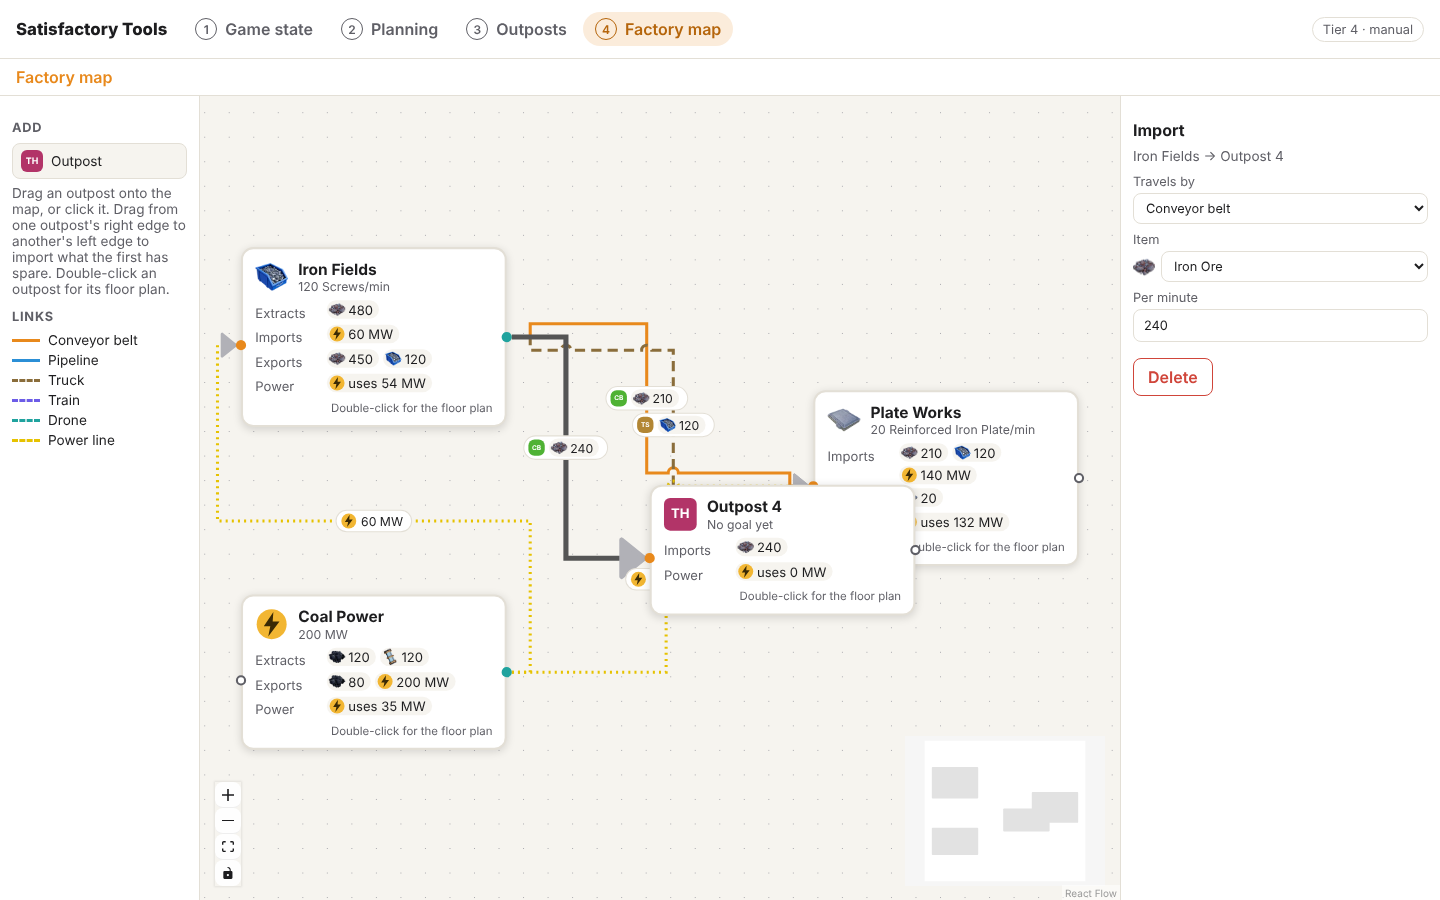
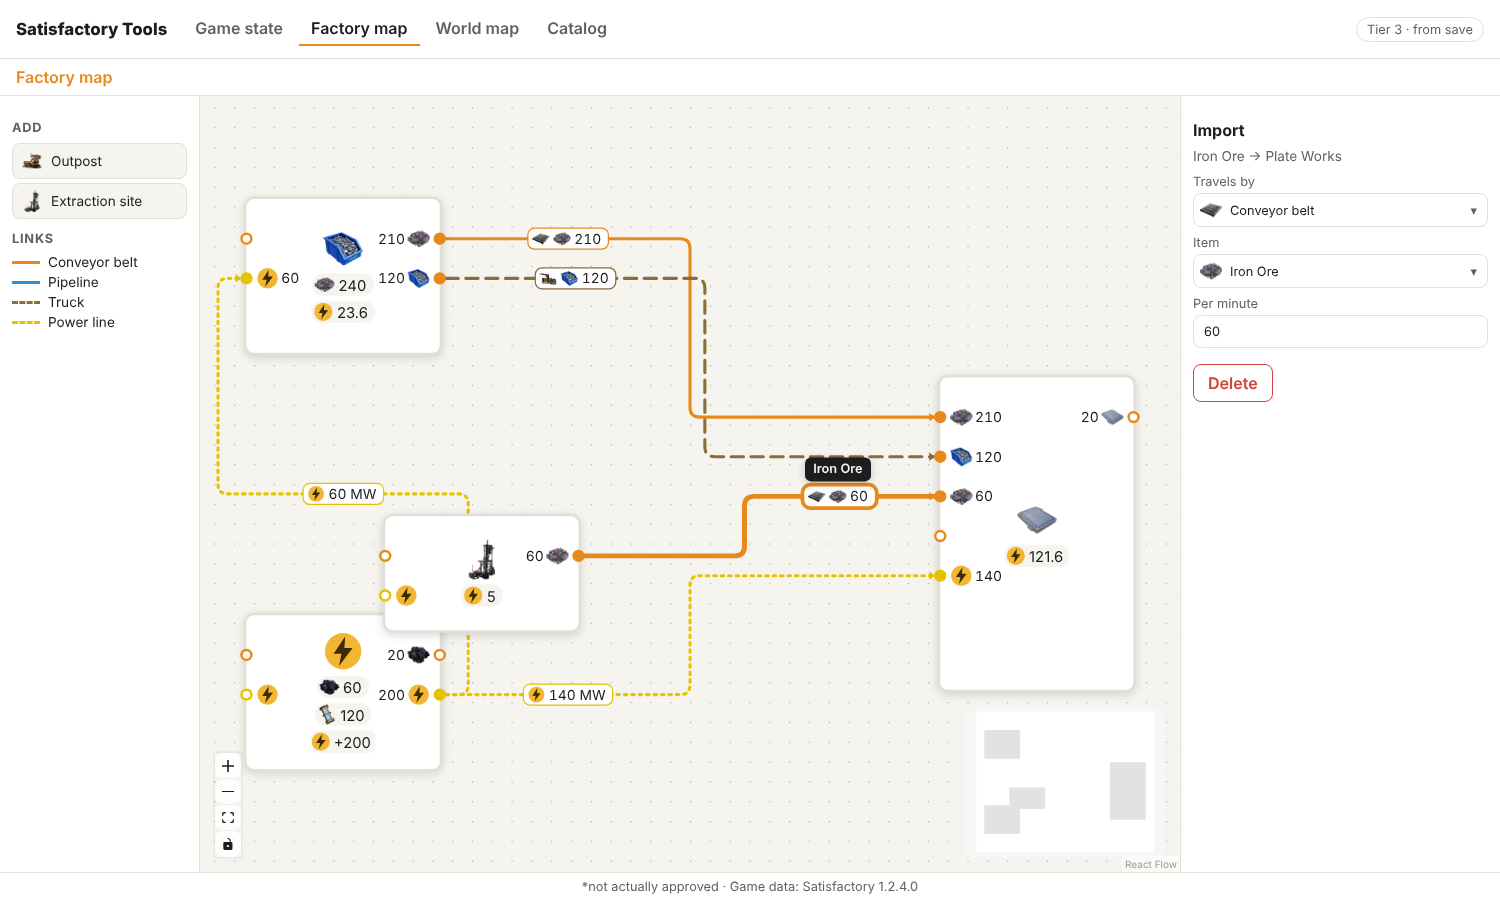
Factory map: a point per export item and per import, valid transports, extraction sites, grid-sized blocks; drop the outposts list
- Each exported item has its own export point and each import its own import point,
  plus one free import point that a new link fills (#67).
- Links only offer transports that fit the item, and are drawn with rounded corners,
  small arrowheads and compact labels (#67).
- Outpost blocks are sized to their largest floor on a half-foundation grid and snap to it (#68).
- Extraction sites: outposts with nodes and no goal, added from the palette (#69).
- The Outposts tab is gone; #/outposts opens the factory map (#65).

Claude-Session: https://claude.ai/code/session_012XC9zHTGKXR4wxBLU2vdTS

diff --git a/docs/node-editor.md b/docs/node-editor.md
@@ -13,9 +13,15 @@ Tracked in #12. The layout algorithm is #13, the floor-plan grid is #29.
 
 ![Factory map](node-editor/1-factory-map.png)
 
-Each block shows the outpost's goal, what it extracts, what it imports, what it exports (goal, surplus resources and byproducts, from the solver) and how much power it uses. Shortfalls show in red.
+Blocks are drawn with icons rather than text (`src/editor/macro.ts`, #67, #68):
 
-Links are coloured by how they travel: belt, pipe, truck, train, drone, or power line. When two outposts have several links, they are drawn side by side.
+- **Size**: each block is as big as the outpost's largest floor (or its extractors side by side), on a grid of half foundations (16 px is 4 m), with room for its connection points. Blocks snap to that grid as you drag them; faint lines mark whole foundations. Hover a block for its name and footprint; the name shows inside only when the block is wide enough.
+- **Export points** on the right edge: one per item it sends out (goal, surplus resources, byproducts), with the item's icon and rate.
+- **Import points** on the left edge: one per import, with its icon and rate, plus one free point below them. A link fills the free point and a new free point appears; a point never takes two links.
+- **Power**: a power point under the import points (power in) and under the export points (power out).
+- **Inside**: the goal's icon (an extractor for extraction sites), what it extracts for itself, its power, and anything it is short on in red.
+
+Links are coloured by how they travel: belt, pipe, truck, train, drone, or power line, with rounded corners, a small arrowhead at the import end and a compact label with the transport, item and rate.
 
 With nothing selected, the right-hand panel shows the **power grid** as a widget (#66): what the generators make, what the outposts use, and what is spare or short, as tiles and a bar that turns red past what is made. Below it are the generators (count, type and fuel) and every outpost's draw, with a bar for its share; click one to select it. All outposts share one grid for now; separate grids are #61.
 
@@ -30,7 +36,9 @@ The floor plan is stricter, see [The grid](#the-grid) below.
 What you can do:
 
 - **Add an outpost**: drag "Outpost" from the left onto the map, or click it. This creates an empty plan.
-- **Import between outposts**: drag from one outpost's right edge to another's left edge. The new link imports whatever the first outpost has spare (its first open offer). If it only has power spare, you get a power line instead. Select the link to change the item, rate or transport.
+- **Add an extraction site** (#69): "Extraction site" creates an outpost with one node and no goal. Pick its nodes (or water extractors) in the panel; everything it mines is exported, one export point per resource, and its floor plan shows just the extractors and export ports.
+- **Import between outposts**: drag from an export point to another outpost's free import point. The link imports that item: whatever the exporter still has spare. Power out connects only to power in. Select the link to change the item (one of the exporter's exports), rate or transport.
+- **Only transports that fit the item**: solids go by belt, truck, train or drone; fluids and gases by pipe or train (fluid freight). The pickers never offer Water by belt or Rotors by pipe.
 - **See an outpost's power**: select it. A power widget shows what it uses and makes, what it takes from or gives to the grid, how much of its output is spoken for, and its power lines to other outposts.
 - **See what you could import**: select an outpost. The panel lists its imports and exports, and everything the other outposts still have spare, each with an Import button. Power from power outposts has a Connect button.
 - **Open the floor plan**: double-click an outpost, or use "Open floor plan" in its panel.
@@ -38,6 +46,10 @@ What you can do:
 - **Edit the plan itself** (goal, resource nodes, recipes): "Edit goal, resources and recipes" opens the outpost in the planning flow.
 
 ![Outpost selected](node-editor/2-outpost-inspector.png)
+
+![A new link and its panel](node-editor/3-new-link.png)
+
+![An extraction site](node-editor/9-extraction-site.png)
 
 With no outposts yet, the panel offers **Load example outposts**: Iron Fields (two pure iron nodes, makes 120 screws), Coal Power (200 MW) and Plate Works (20 Reinforced Iron Plates from imported ore and screws).
 

diff --git a/docs/user-journey.md b/docs/user-journey.md
@@ -4,7 +4,7 @@ What the site does today, how the pieces fit, and where to extend them. Screensh
 
 ## The flow
 
-The top bar has four tabs, not steps: **Game state**, **Factory map**, **Outposts** and **Catalog**. The main flow is game state, then the factory map; the catalog is for looking things up, and the outposts screens are where one outpost is defined. A footer with the game data version and the "not actually approved" notice is always visible, with the page scrolling between the top bar and the footer.
+The top bar has tabs, not steps: **Game state**, **Factory map**, **World map** and **Catalog**. The main flow is game state, then the factory map; the catalog is for looking things up, and the outpost editor (opened from the factory map) is where one outpost is defined. The old outposts list was dropped because the factory map shows the same outposts better (#65); `#/outposts` now opens the factory map. A footer with the game data version and the "not actually approved" notice is always visible, with the page scrolling between the top bar and the footer.
 
 1. **Welcome** (`#/`): upload a save or set up by hand. Returning players get "Open your factory map".
 2. **Upload** (`#/upload`): drop a `.sav` file. It is parsed in the browser (`src/save/`) and the result screen shows what was read: tier, Space Elevator phase, milestones, MAM research, alternates and AWESOME Shop unlocks, plus how many unknown (usually modded) unlocks were skipped. "Try a sample" shows a made-up mid-game state instead. In Chrome and Edge on a computer the player can instead link the save folder (or one file, or drop either on the page): the browser keeps a handle to it in IndexedDB, and every visit re-reads the newest save of the linked session when it changed (`src/save/linked.ts`, `src/save/sync.ts`). Browsers ask again for access once per visit, through the "Update from save" chip in the top bar. Other browsers get a note to upload again after playing.
@@ -14,8 +14,8 @@ The top bar has four tabs, not steps: **Game state**, **Factory map**, **Outpost
    - alternates list only what a hard drive could give right now;
    - "Show anyway" reveals later tiers. The spoiler setting (hide or blur locked things) also lives here.
 4. **Catalog** (`#/catalog`, `#/plan` still works): index and search of unlocked recipes (per-minute rates), items and buildings, plus the milestones you can buy next. Locked content is a count, or blurred cards with no names. "Plan an outpost" on an item starts an outpost with that goal.
-5. **Outposts** (`#/outposts`): the network of outposts, each showing what goes in (nodes, imports) and what comes out (goal, spare resources, byproducts, power).
-6. **Outpost editor** (`#/outposts/:id/goal|resources|plan`), declarative, in three tabs that can be opened in any order. A breadcrumb leads back to the factory map (or the outposts list), and the header has "Floor plan" and "Delete":
+5. **Factory map** (`#/map`): the network of outposts, each showing what goes in (nodes, imports) and what comes out (goal, spare resources, byproducts, power). See [node editor](node-editor.md).
+6. **Outpost editor** (`#/outposts/:id/goal|resources|plan`), declarative, in three tabs that can be opened in any order. A breadcrumb leads back to the factory map, and the header has "Floor plan" and "Delete":
    - **Goal**: what it must deliver. Products (anything producible or a raw resource) and/or power in MW from a chosen generator and fuel. Optionally self-powered.
    - **Resources**: the nodes it sits on (resource, purity, extractor) and imports. Imports are picked from what other outposts still have spare, with amount and transport. Items the outpost is short on are highlighted, with one-tap "add a node" buttons.
    - **Plan**: the proposed production steps, generators and extractors. Each item with more than one unlocked recipe has a picker; the suggested one is marked and "Reset to suggested recipes" drops overrides.
